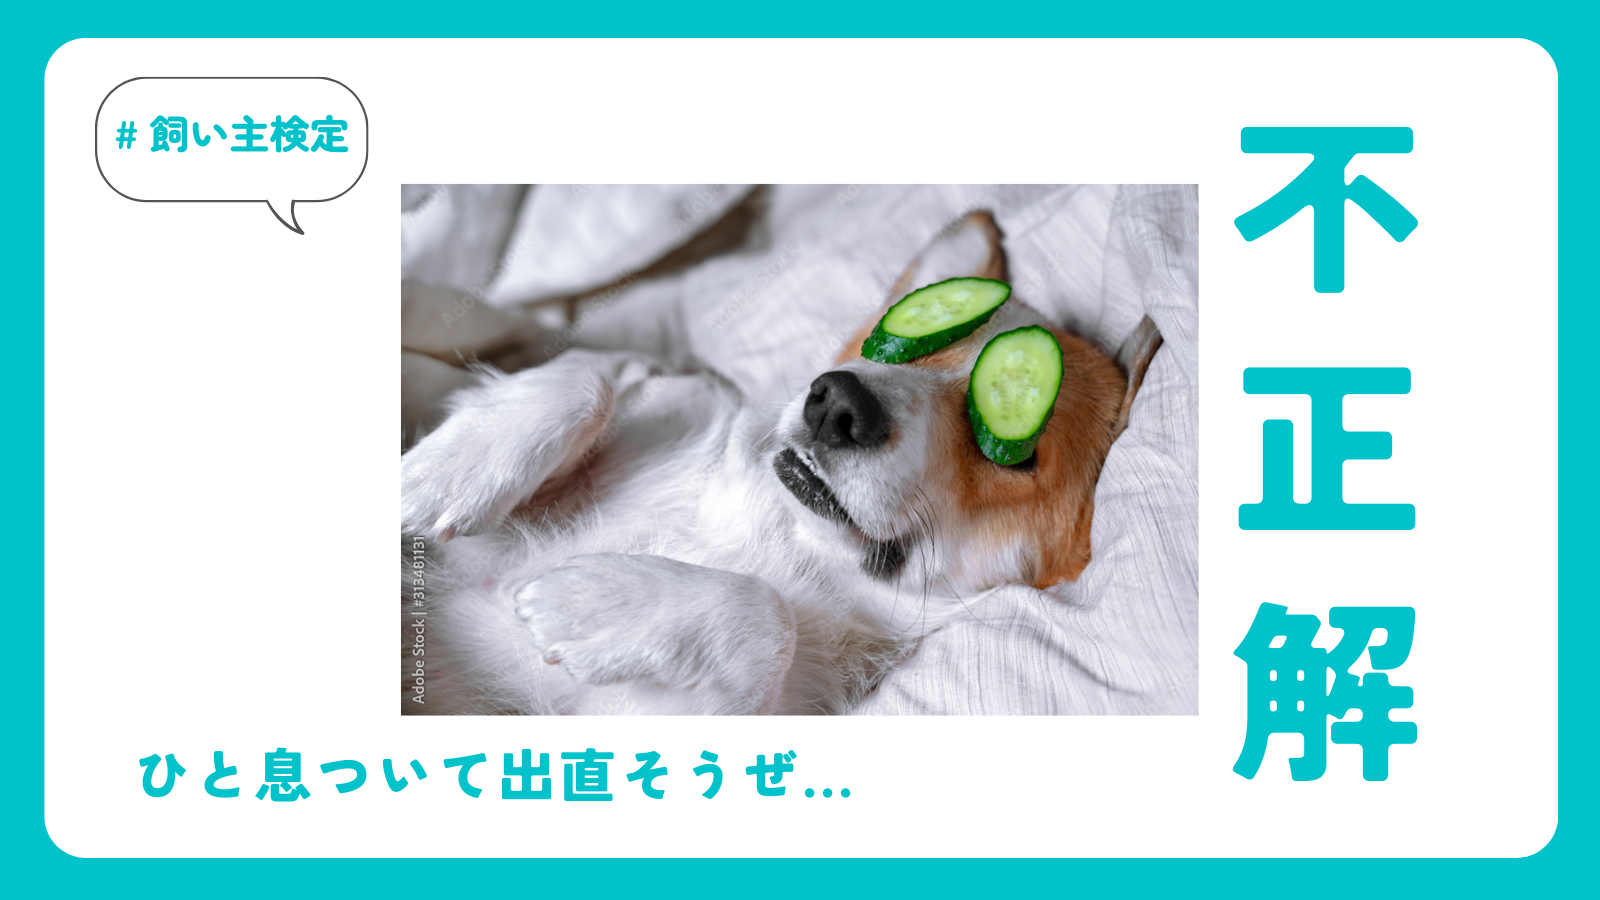
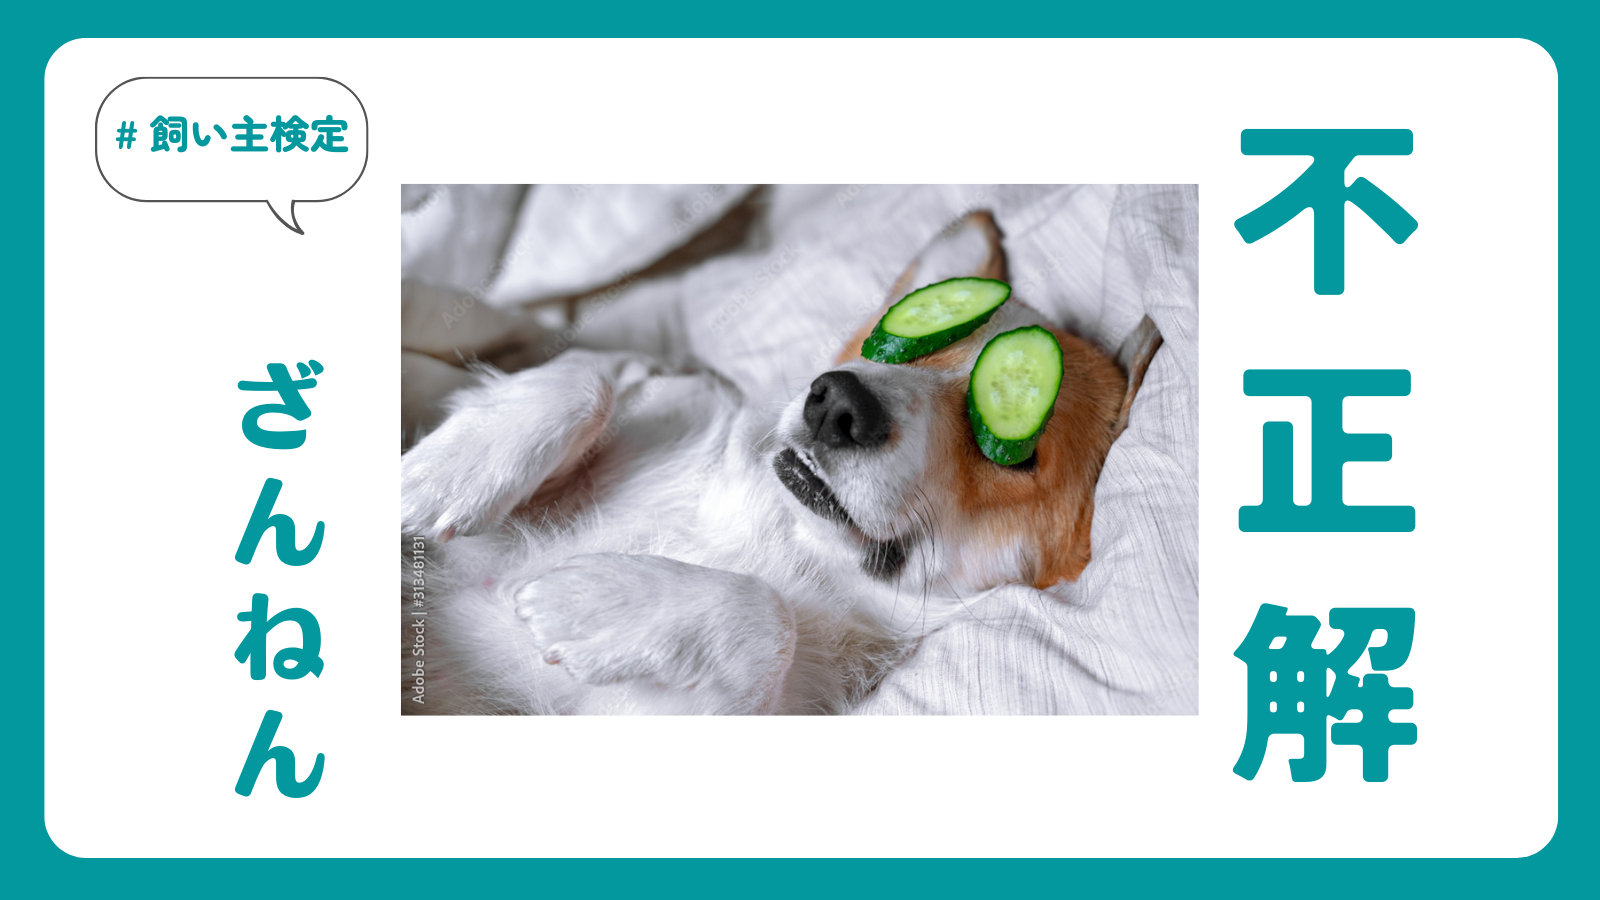
fix

diff --git a/src/components/commentarycard.tsx b/src/components/commentarycard.tsx
@@ -32,6 +32,7 @@ interface ArticleCardProps {
     description: any;
     image: any;
     icon: any;
+    commentator: any;
   };
 }
 
@@ -47,15 +48,15 @@ export default function CommentaryCard({
   return (
     <Card withBorder p="lg" radius="md" className={classes.card}>
       <Card.Section mb="sm">
-        <Image src={image} alt={title}/>
+        <Image src={image} alt={title} layout="responsive" width={1600} height={900} />
       </Card.Section>
 
       {/* <Badge>{category}</Badge> */}
-
-      <Text weight={700} className={classes.title} mt="xs">
+      {/* <Text weight={700} className={classes.title} mt="xs">
         {title}
-      </Text>
-      <Text weight={500} className={classes.title} mt="xs">
+      </Text> */}
+      
+      <Text weight={500} className={classes.title} mt="lg">
         答え：　{commentary.answer}
       </Text>
 
@@ -63,8 +64,11 @@ export default function CommentaryCard({
         <div>
           <Grid>
             <Grid.Col span={3}>
-              <Center mt="sm">
-                <Image src={commentary.image} alt={title} width={64} height={64} />
+              <Center mt="xs">
+                <Image src={commentary.image} alt={'commentator'} width={64} height={64} />
+              </Center>
+              <Center mt="xs">
+                <Text size="xs" color="dimmed">解説者：<br/>{commentary.commentator}</Text>
               </Center>
             </Grid.Col>
             <Grid.Col span={9} pl="0" pr="xs">

diff --git a/src/components/radio_cat.tsx b/src/components/radio_cat.tsx
@@ -8,25 +8,27 @@ export default function Choices({choice1, choice2, choice3, answer, commentary, 
   const sendAnswer = async () => {
     if (value == answer) {
       const category = '猫の検定'
-      const judge = '正解'
-      const res = await fetch(`/api/update/sendform?type=cat&id=` + id + "&result=" + judge)
+      const judgment = '正解'
+      const judgeImg = '/dog_correct.png'
+      const res = await fetch(`/api/update/sendform?type=cat&id=` + id + "&result=" + judgment)
       const data = await res.json()
       router.push(
         {
           pathname: "/catans",
-          query: {category, value, answer, judge, commentary}
-        },"judge"
+          query: {category, value, answer, judgment, judgeImg, commentary}
+        },"judgment"
       )
     } else {
       const category = '猫の検定'
-      const judge = '不正解'
-      const res = await fetch(`/api/update/sendform?type=cat&id=` + id + "&result=" + judge)
+      const judgment = '不正解'
+      const judgeImg = '/dog_incorrect.png'
+      const res = await fetch(`/api/update/sendform?type=cat&id=` + id + "&result=" + judgment)
       const data = await res.json()
       router.push(
         {
           pathname: "/catans",
-          query: {category, value, answer, judge, commentary}
-        },"judge"
+          query: {category, value, answer, judgment, judgeImg, commentary}
+        },"judgment"
       )
     }
   }

diff --git a/src/components/radio_dog.tsx b/src/components/radio_dog.tsx
@@ -8,25 +8,27 @@ export default function Choices({choice1, choice2, choice3, answer, commentary, 
   const sendAnswer = async () => {
     if (value == answer) {
       const category = '犬の検定'
-      const judge = '正解'
-      const res = await fetch(`/api/update/sendform?type=dog&id=` + id + "&result=" + judge)
+      const judgment = '正解'
+      const judgeImg = '/dog_correct.png'
+      const res = await fetch(`/api/update/sendform?type=dog&id=` + id + "&result=" + judgment)
       const data = await res.json()
       router.push(
         {
           pathname: "/dogans",
-          query: {category, value, answer, judge, commentary}
-        },"judge"
+          query: {category, value, answer, judgment, judgeImg, commentary}
+        },"judgment"
       )
     } else {
       const category = '犬の検定'
-      const judge = '不正解'
-      const res = await fetch(`/api/update/sendform?type=dog&id=` + id + "&result=" + judge)
+      const judgment = '不正解'
+      const judgeImg = '/dog_incorrect.png'
+      const res = await fetch(`/api/update/sendform?type=dog&id=` + id + "&result=" + judgment)
       const data = await res.json()
       router.push(
         {
           pathname: "/dogans",
-          query: {category, value, answer, judge, commentary}
-        },"judge"
+          query: {category, value, answer, judgment, judgeImg, commentary}
+        },"judgment"
       )
     }
   }

diff --git a/src/pages/dogans.tsx b/src/pages/dogans.tsx
@@ -3,8 +3,6 @@ import Head from 'next/head'
 import { useRouter } from 'next/router'
 import CommentaryCard from '@/components/commentarycard'
 import commentatorImg from 'public/dog_commentator.png'
-import correctImg from '/public/dog_correct.png'
-import incorrectImg from '/public/dog_incorrect.png'
 
 const DogAns: NextPage = () => {
   const router = useRouter()
@@ -16,15 +14,16 @@ const DogAns: NextPage = () => {
       </Head>
       <main>
         <CommentaryCard
-          image={correctImg}
+          image={router.query.judgeImg}
           category={router.query.category}
-          title={router.query.judge}
+          title={router.query.judgment}
           footer={''}
           commentary={{
             answer: router.query.answer,
             description: router.query.commentary,
             image: commentatorImg,
-            icon: 'faDog'
+            icon: 'faDog',
+            commentator: '犬岡 明美'
           }}
         />
       </main>

diff --git a/src/pages/catans.tsx b/src/pages/catans.tsx
@@ -2,7 +2,6 @@ import type { NextPage } from 'next'
 import Head from 'next/head'
 import { useRouter } from 'next/router'
 import CommentaryCard from '@/components/commentarycard'
-import correctImg from '/public/dog_correct.png'
 import commentatorImg from 'public/cat_commentator.png'
 
 const CatAns: NextPage = () => {
@@ -15,15 +14,16 @@ const CatAns: NextPage = () => {
       </Head>
       <main>
         <CommentaryCard
-          image={correctImg}
+          image={router.query.judgeImg}
           category={router.query.category}
-          title={router.query.judge}
+          title={router.query.judgment}
           footer={''}
           commentary={{
             answer: router.query.answer,
             description: router.query.commentary,
             image: commentatorImg,
-            icon: 'faCat'
+            icon: 'faCat',
+            commentator: '猫宮 三郎'
           }}
         />
       </main>
